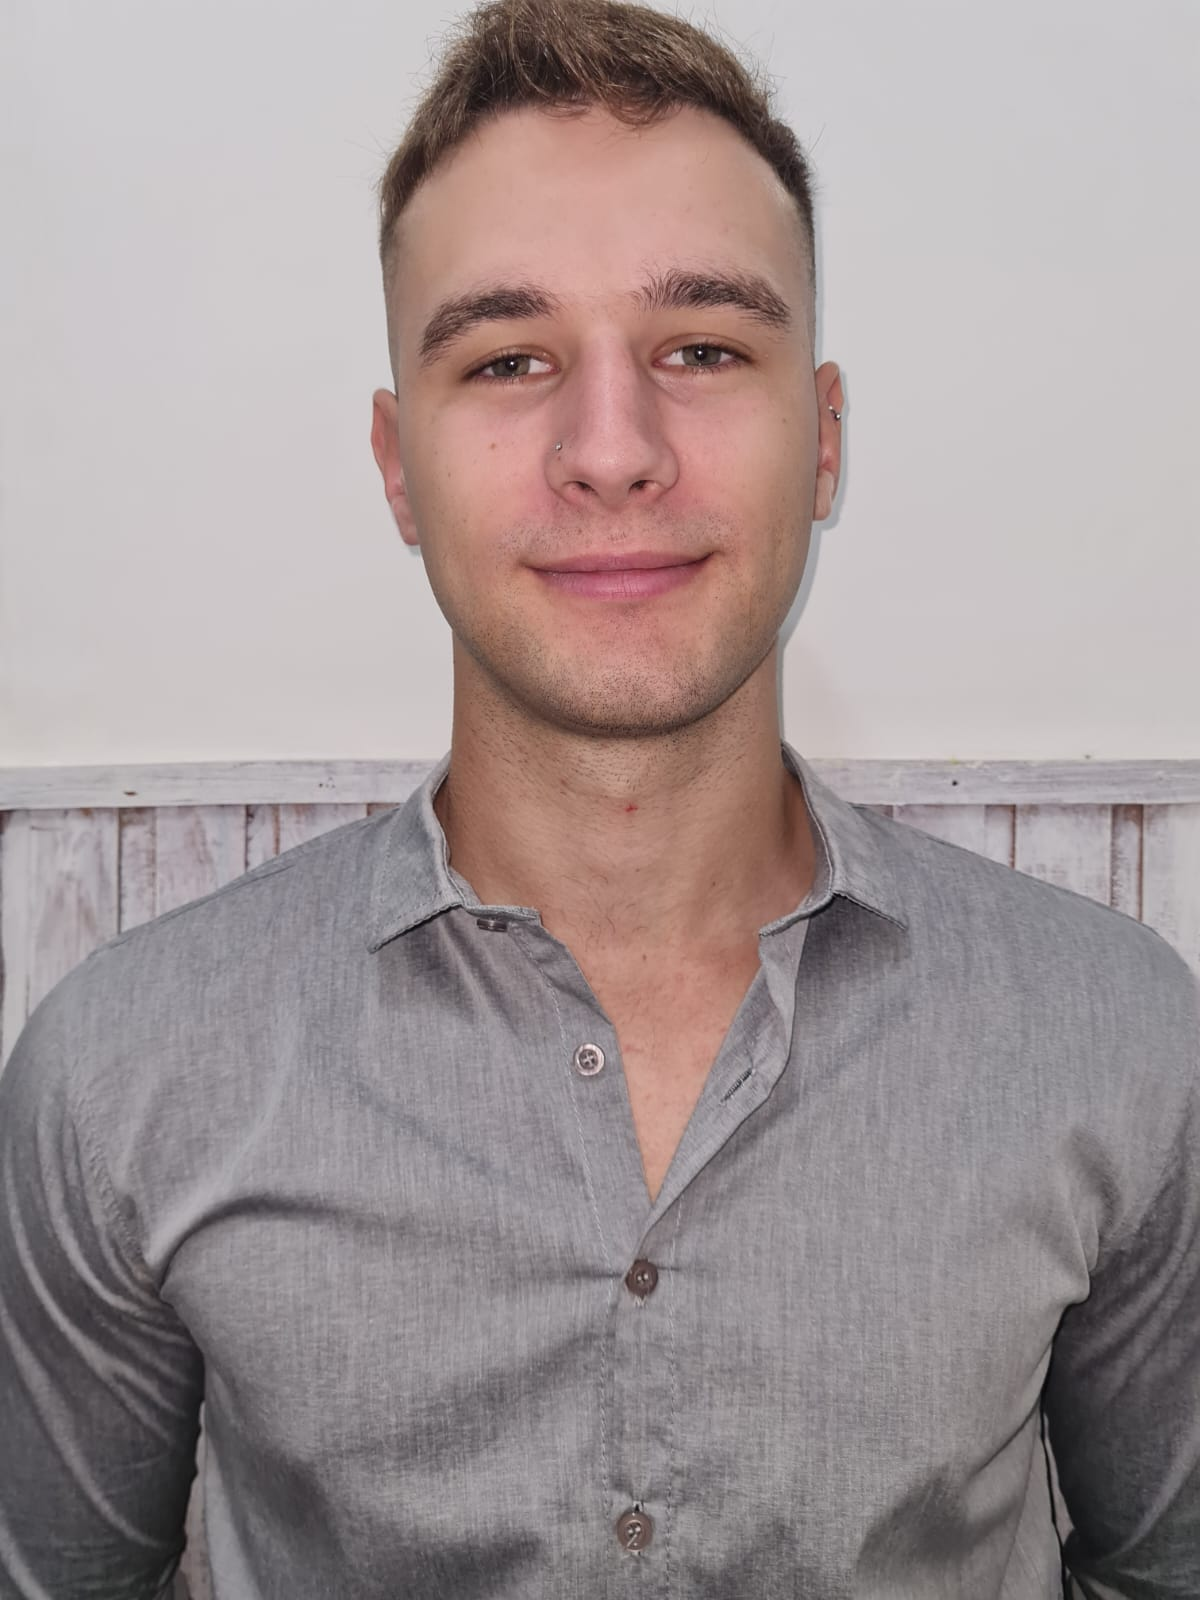
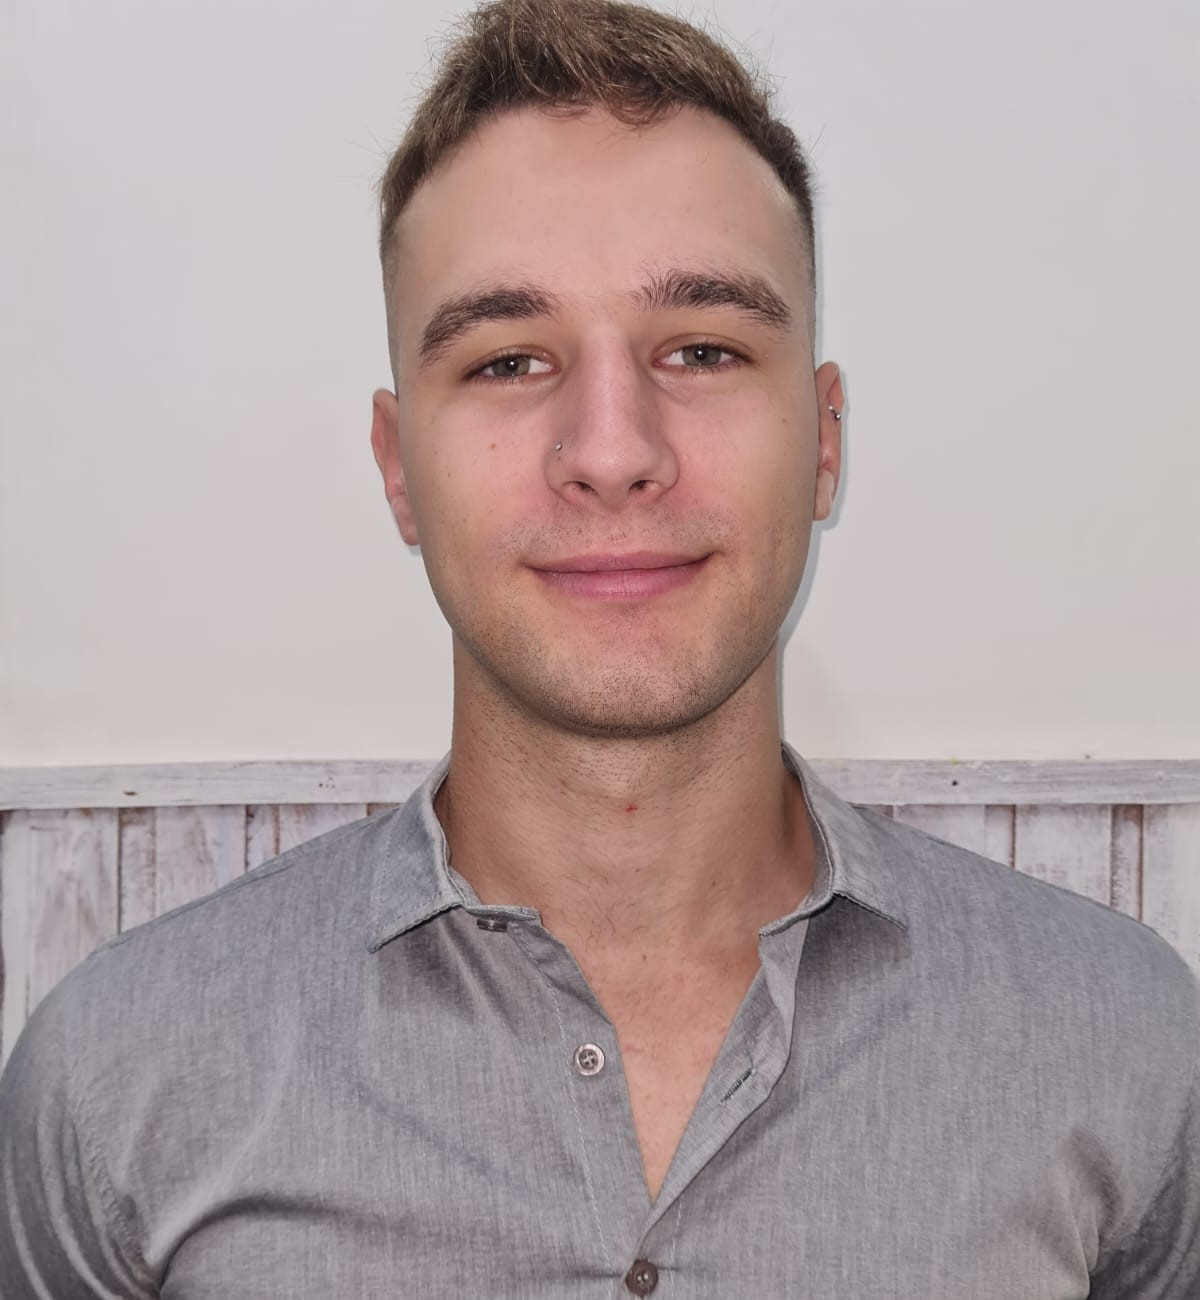
Datos Personales
Se modifica la imagen personal para que se vea más centrada.
Se agrega la Ficha personal y Linkedin

diff --git a/quienes_somos.html b/quienes_somos.html
@@ -74,9 +74,9 @@
                 <img src="img/integrantes/BrunoMoriones.jpg" alt="foto" class="fotosintegrantes">
                 <br><a class="Nombreintegrante">Bruno Moriones</a>
                 <div class="social">
-                    <a href="#" target="_blank"><i
+                    <a href="https://brunomrns.github.io/FichaPersonal/" target="_blank"><i
                             class="fa fa-regular fa-eye"></i></a>
-                    <a href="#"  target="_blank"><i
+                    <a href="https://www.linkedin.com/in/bruno-moriones-2a6b191b4/"  target="_blank"><i
                             class="fa fa-brands fa-linkedin"></i></a>
                 </div>
             </div>
